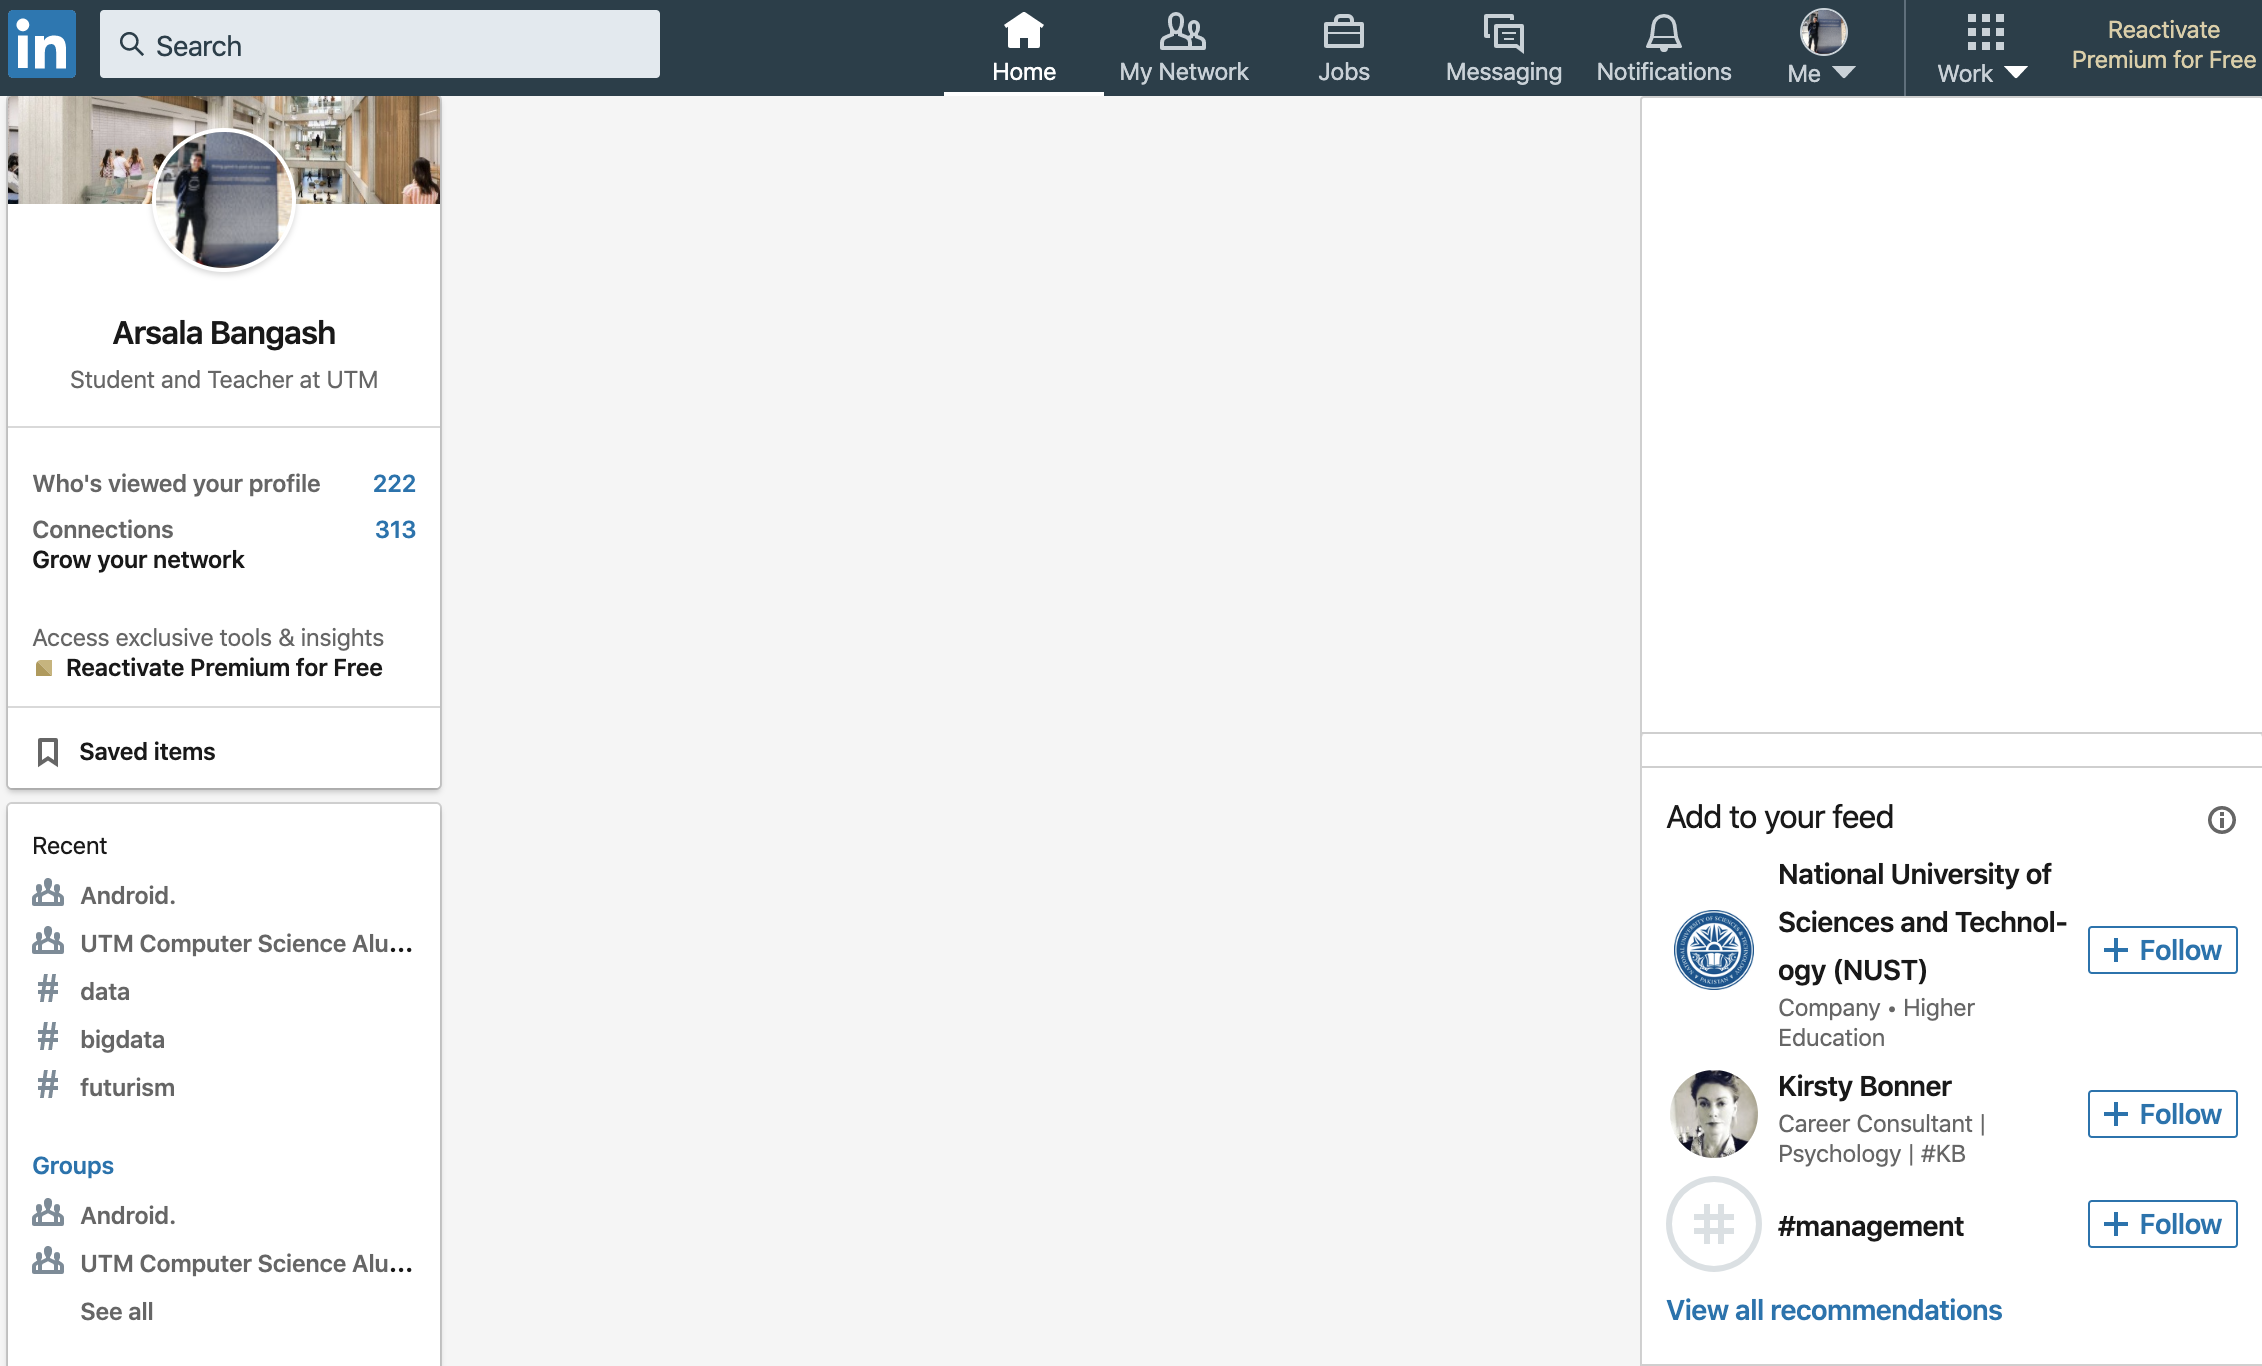
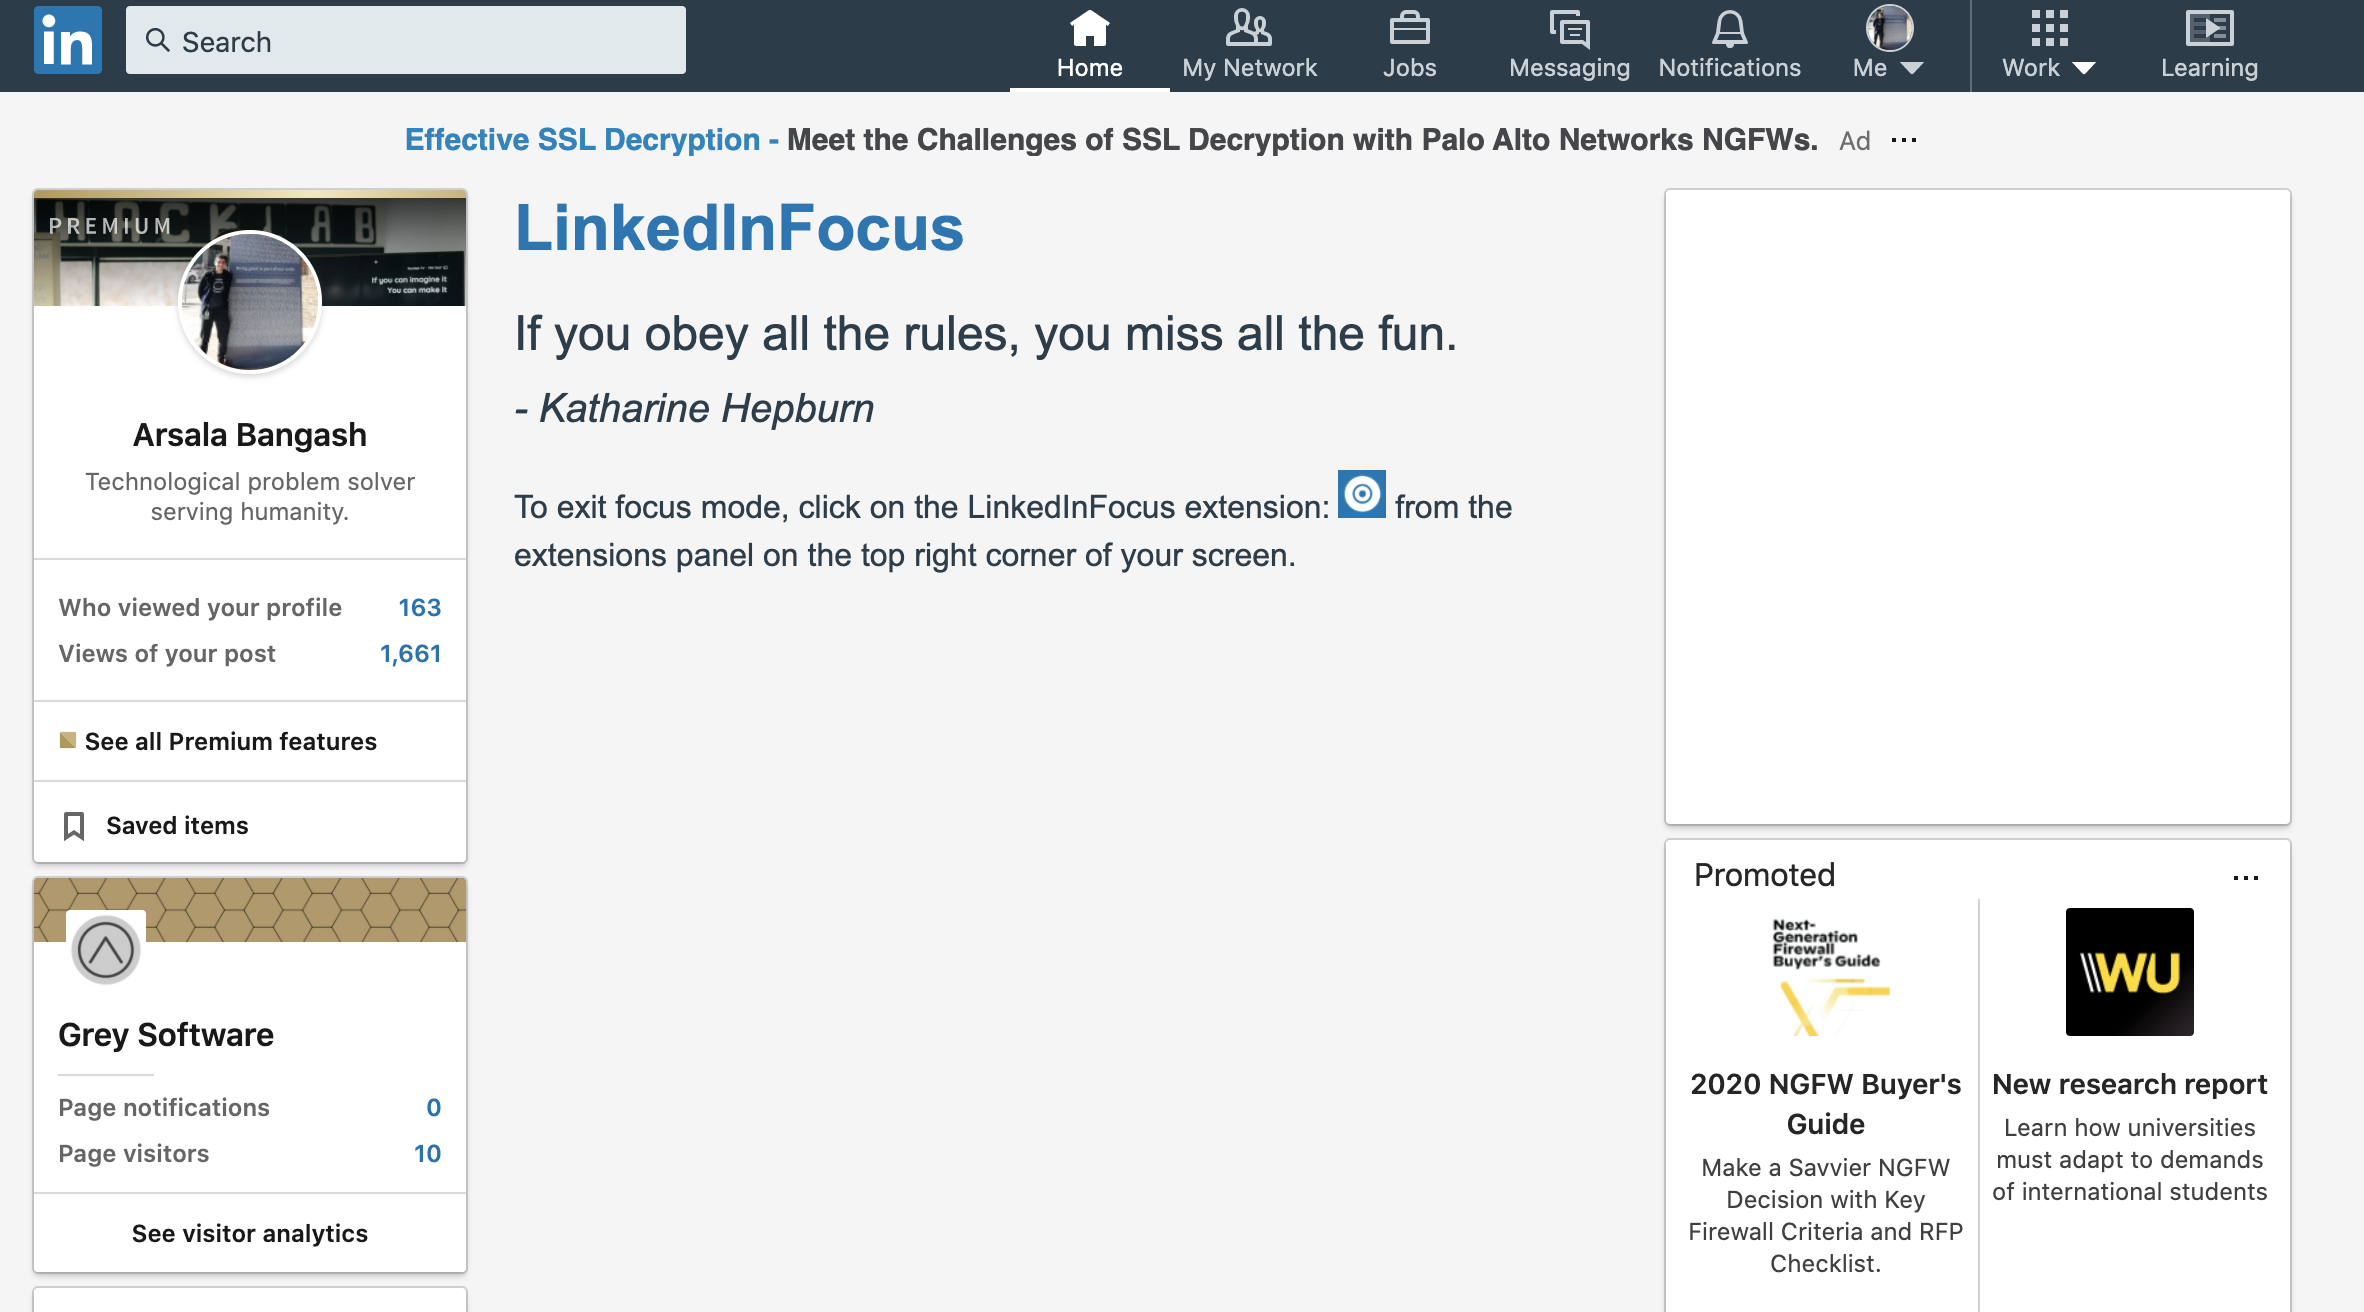
Updated before and after photos, rewrote news feed enabling instructions

diff --git a/content.js b/content.js
@@ -400,7 +400,6 @@ const quotes = [
     }
 ]
 
-var instruction = "To enable your news feed again, click on the LinkedInFocus extension icon which looks like this:"
 const logoUrl = chrome.runtime.getURL("icon.png")
 var newsFeedContent = document.getElementsByClassName('core-rail')[0].innerHTML
 port.onMessage.addListener((msg) => {
@@ -440,12 +439,14 @@ function displayQuote() {
     const instructionStyle = "style=\"color:#293E4A;font-size:16px;\margin-bottom:4px;\""
     const logoStyle = " style=\"margin-left: 4px;height: 24px;\" "
 
+    const instruction = "To exit focus mode, click on the LinkedInFocus extension:"
+
     var linkedInFocusHTML = "<h1 " + titleStyle + ">LinkedInFocus</h1>"
     linkedInFocusHTML += "<p " + quoteStyle + ">" + quote.text + "</p>"
     linkedInFocusHTML += "<p " + quoteSourceStyle + ">- " + quote.source + "</p>"
-    linkedInFocusHTML += "<p " + instructionStyle + ">" + instruction + "</p>"
-    linkedInFocusHTML += "<img src=\"" + logoUrl + "\" " + logoStyle + ">"
-    linkedInFocusHTML += "<p " + instructionStyle + ">" + " It can be found on the top right corner of your screen." + "</p>"
+    linkedInFocusHTML += "<p " + instructionStyle + ">" + instruction 
+    linkedInFocusHTML += "<img src=\"" + logoUrl + "\" " + logoStyle + ">" + " from the extensions panel on the top right corner of your screen.</p>"
+    // linkedInFocusHTML += "<p " + instructionStyle + ">" + " from the extensions panel on the top right corner of your screen." + "</p>"
     document.getElementsByClassName('core-rail')[0].innerHTML = linkedInFocusHTML
     document.getElementsByClassName('core-rail')[0].style.fontFamily = "Arial, Helvetica";
 }
